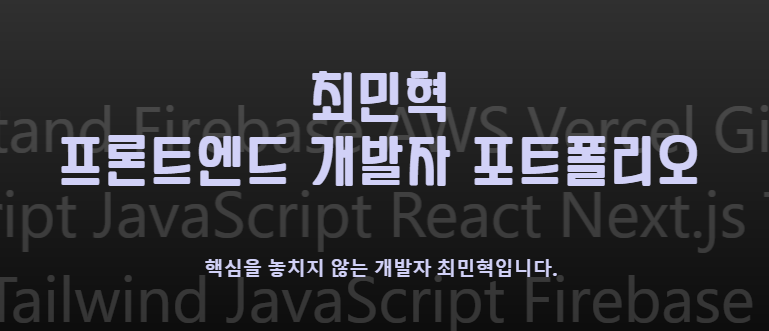
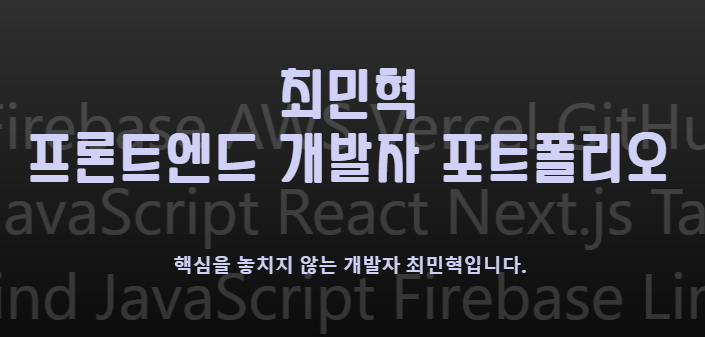
feat: 네이버 소유확인 메타태그 설정

Changed region(s): [[0.0, 0.1813, 1.0, 1.0]]

diff --git a/src/app/layout.tsx b/src/app/layout.tsx
@@ -31,6 +31,11 @@ export default function RootLayout({
           name="google-site-verification"
           content="yNsABsjfQqsN429xs02JqHLfNy-FCj6u8I8kIL0-znc"
         />
+        <meta
+          name="naver-site-verification"
+          content="950d1e5989a1aaebf11e3456bd18a132b8cf8f47"
+        />
+        <link rel="icon" href="./icon.svg" />
       </head>
       <body>
         <NextTopLoader color="#9e24e6" />

diff --git a/src/app/project/portfolio/page.tsx b/src/app/project/portfolio/page.tsx
@@ -27,7 +27,11 @@ function Portfolio() {
       ></LeftImgItem>
       <RightImgItem
         cardTitle="SEO 설정"
-        cardDescription={["1", "", "", ""]}
+        cardDescription={[
+          "메타태그 설정",
+          "구글 검색엔진 등록",
+          "네이버 검색엔진 등록",
+        ]}
         cardImage="/github.svg"
       ></RightImgItem>
     </ProjectContainer>
